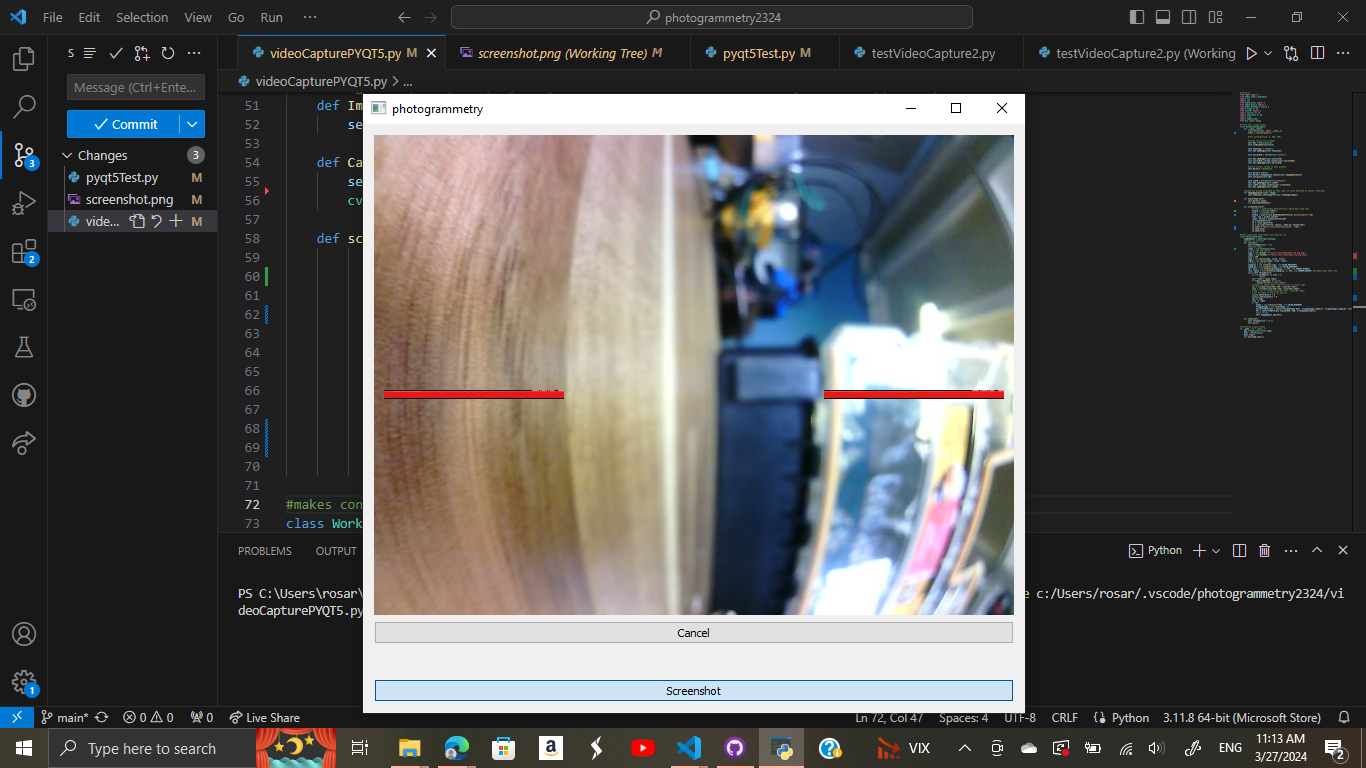
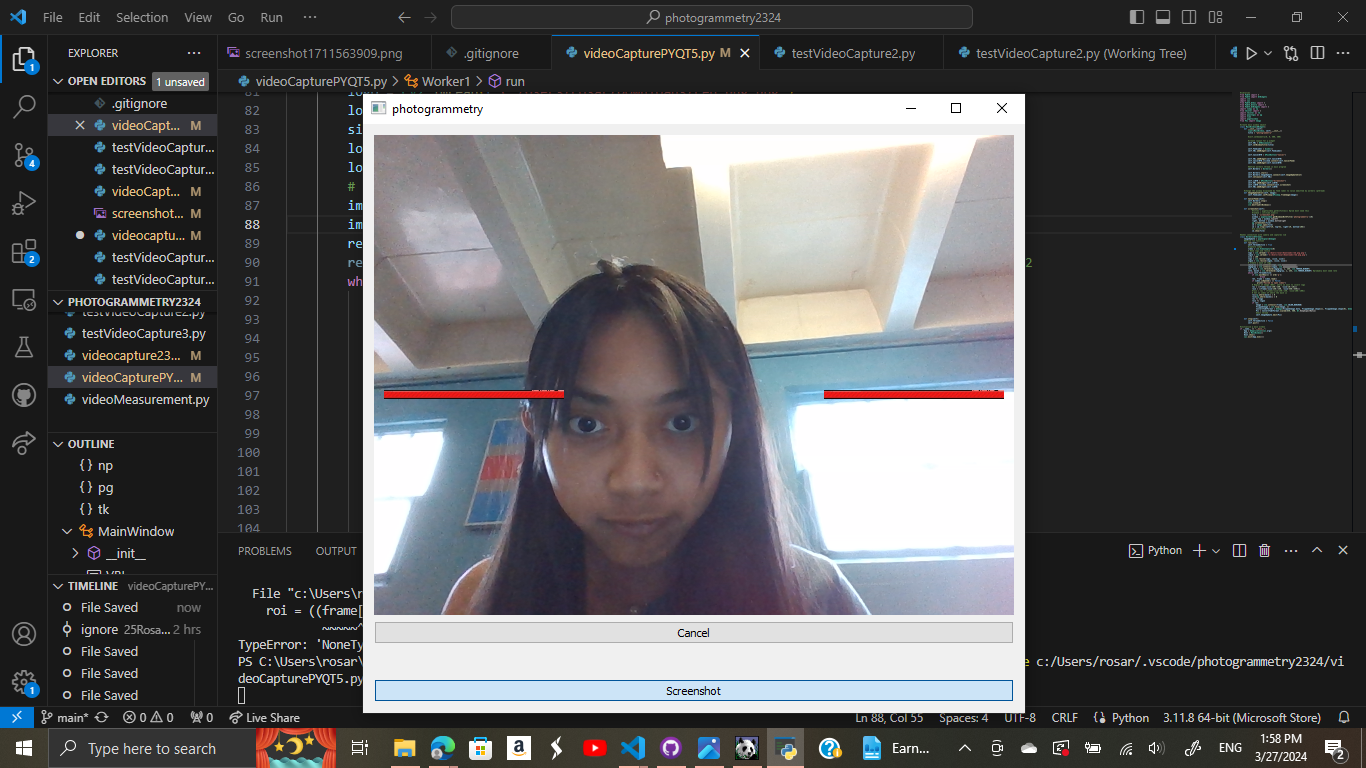
edit

diff --git a/videocapture2324.py b/videocapture2324.py
@@ -1,1 +1,123 @@
-#official code
+#libraries
+from PyQt5 import *
+from PyQt5 import QtWidgets
+import cv2
+import sys
+from PyQt5.QtGui import *
+from PyQt5.QtCore import *
+from PyQt5.QtWidgets import *
+import numpy as np
+from tkinter import *
+import tkinter as tk
+import pyautogui as pg
+import time
+import pygetwindow
+from PIL import Image
+
+#create main window object
+class MainWindow(QWidget):
+    def __init__(self):
+        super(MainWindow, self).__init__()
+        title = "photogrammetry"
+        
+        #self.setGeometry(0, 0, 500, 300)
+
+        #create layout for q widget
+        self.VBL = QVBoxLayout()
+        self.setWindowTitle(title)
+
+        self.FeedLabel = QLabel()
+        self.VBL.addWidget(self.FeedLabel)
+
+        self.CancelBTN = QPushButton("Cancel")
+
+        self.VBL.addWidget(self.CancelBTN)
+        self.CancelBTN.clicked.connect(self.CancelFeed)
+        self.VBL.addWidget(self.CancelBTN)
+
+        #define worker1 thread in main program
+        self.Worker1 = Worker1()
+
+        self.Worker1.start()
+        self.Worker1.ImageUpdate.connect(self.ImageUpdateSlot)
+        self.setLayout(self.VBL)
+
+        self.ssBTN = QPushButton("Screenshot")
+        self.VBL.addWidget(self.ssBTN)
+        self.ssBTN.clicked.connect(self.screenshot)
+        self.VBL.addWidget(self.ssBTN)
+
+    #change the pixmap displayed by feed label to value emmitted by worker1 (qthread) 
+    def ImageUpdateSlot(self, Image):
+        self.FeedLabel.setPixmap(QPixmap.fromImage(Image))
+
+    def CancelFeed(self):
+        self.Worker1.stop()
+        time.sleep(0)
+        cv2.destroyAllWindows()
+
+    def screenshot(self):
+            #titles = pygetwindow.getAllTitles() #prob dont need this
+            random = int(time.time())
+            file = "C:/Users/rosar/Downloads/guiSS/" + str(random) + ".png"
+            window = pygetwindow.getWindowsWithTitle('photogrammetry')[0]
+            left, top = window.topleft
+            right, bottom = window.bottomright
+            pg.screenshot(file)
+            im = Image.open(file)
+            im = im.crop((left+19, top+42, right-19, bottom-106))
+            im.save(file)
+            im.show(file)
+
+#makes connection with camera and captures vid
+class Worker1(QThread):
+    ImageUpdate = pyqtSignal(QImage)
+    #define run function
+    def run(self):
+        self.ThreadActive = True
+        #capture video
+        video = cv2.VideoCapture(0)
+        # Read logo and resize 
+        logo = cv2.imread(r'C:/Users/rosar/Downloads/red.png.png') 
+        logo2 = cv2.imread(r'C:/Users/rosar/Downloads/red.png.png')
+        size = 180
+        logo = cv2.resize(logo, (size, size)) 
+        logo2 = cv2.resize(logo2, (size, size))
+        # Create a mask of logo 
+        img2gray = cv2.cvtColor(logo, cv2.COLOR_BGR2GRAY)
+        img3gray = cv2.cvtColor(logo2, cv2.COLOR_BGR2GRAY) 
+        ret, mask = cv2.threshold(img2gray, 1, 255, cv2.THRESH_BINARY)
+        ret2, mask2 = cv2.threshold(img3gray, 1, 255, cv2.THRESH_BINARY) #probably dont need ret2
+        while self.ThreadActive:
+            if cv2.waitKey(1) == ord('q'):
+                    break
+            ret, frame = video.read()
+            if video.isOpened() == False:
+                 print("Failed to open video")
+            # Region of Image (ROI), where we want to insert logo 
+            roi = ((frame[-size-150:-150, -size-10:-10]))
+            roi2 = ((frame[-size-150:-150, -size-450:-450]))
+            #roi1 = roi + (frame[-size-150:-150, -size-100:-100])
+            # Set an index of where the mask is 
+            roi[np.where(mask)] = 0
+            roi2[np.where(mask2)] = 0
+            roi += logo
+            roi2 += logo2 
+            if ret:
+                Image = cv2.cvtColor(frame, cv2.COLOR_BGR2RGB)
+                FlippedImage = cv2.flip(Image, 1)
+                ConvertToQtFormat = QImage(FlippedImage.data, FlippedImage.shape[1], FlippedImage.shape[0], QImage.Format_RGB888)
+                Pic = ConvertToQtFormat.scaled(640, 480, Qt.KeepAspectRatio)
+                #emit thread
+                self.ImageUpdate.emit(Pic)
+                
+    def stop(self):
+        self.ThreadActive = False
+        self.quit()
+
+#initialize q main window
+if __name__ == "__main__":
+    App = QApplication(sys.argv)
+    Root = MainWindow()
+    Root.show()
+    sys.exit(App.exec())

diff --git a/measurementProgram.py b/measurementProgram.py
@@ -6,39 +6,39 @@ import math
 from PIL import Image, ImageFilter
 import matplotlib.pyplot as plt
 
-image = cv2.imread("C:/Users/rosar/Pictures/bloopbloop.jpeg")
-cv2.imshow("image", image)
-cv2.waitKey(0)
-cv2.destroyAllWindows()
-#cv2.resize(image, (400, 325))
-#img_75 = cv2.resize(image, None, fx = 0.75, fy = 0.75)
+# image = cv2.imread("C:/Users/rosar/Pictures/bloopbloop.jpeg")
+# cv2.imshow("image", image)
+# cv2.waitKey(0)
+# cv2.destroyAllWindows()
+# #cv2.resize(image, (400, 325))
+# #img_75 = cv2.resize(image, None, fx = 0.75, fy = 0.75)
 
-#resizing
-image = cv2.imread('C:/Users/rosar/Pictures/bloopbloop.jpeg', cv2.IMREAD_UNCHANGED)
-print('Original Dimensions : ',image.shape)
-width = 380
-height = 450
-dim = (width, height)
-resized = cv2.resize(image, dim, interpolation = cv2.INTER_AREA)
-print('Resized Dimensions : ',resized.shape)
-#cv2.imshow("Resized image", resized)
+# #resizing
+# image = cv2.imread('C:/Users/rosar/Pictures/bloopbloop.jpeg', cv2.IMREAD_UNCHANGED)
+# print('Original Dimensions : ',image.shape)
+# width = 380
+# height = 450
+# dim = (width, height)
+# resized = cv2.resize(image, dim, interpolation = cv2.INTER_AREA)
+# print('Resized Dimensions : ',resized.shape)
+# #cv2.imshow("Resized image", resized)
 
-rotated_image = cv2.rotate(image, cv2.ROTATE_90_CLOCKWISE)
-rotated_resized = cv2.resize(rotated_image, dim, interpolation = cv2.INTER_AREA)
-#cv2.imshow("Rotated and resized image", rotated_resized)
+# rotated_image = cv2.rotate(image, cv2.ROTATE_90_CLOCKWISE)
+# rotated_resized = cv2.resize(rotated_image, dim, interpolation = cv2.INTER_AREA)
+# #cv2.imshow("Rotated and resized image", rotated_resized)
 
-line_image = cv2.line(rotated_resized, (100, 210), (155, 210), (0, 0, 255), 10) 
-#cv2.imshow('with 1 bar', line_image)
+# line_image = cv2.line(rotated_resized, (100, 210), (155, 210), (0, 0, 255), 10) 
+# #cv2.imshow('with 1 bar', line_image)
 
-two_bars = cv2.line(line_image, (210, 210), (265, 210), (0, 0, 255), 10)
-cv2.imshow('with 2 bars', two_bars)
+# two_bars = cv2.line(line_image, (210, 210), (265, 210), (0, 0, 255), 10)
+# cv2.imshow('with 2 bars', two_bars)
 
-cv2.waitKey(0)
-cv2.destroyAllWindows()
+# cv2.waitKey(0)
+# cv2.destroyAllWindows()
 
 
 #variables
-ppmm = 5.855555
+ppmm = 5.855555 #make ppmm as input
 
 #ppmm means pixels per mm
 pixels = 0

diff --git a/pyqt5Test.py b/pyqt5Test.py
@@ -59,14 +59,15 @@ class MainWindow(QWidget):
     def screenshot(self):
             #titles = pygetwindow.getAllTitles() #prob dont need this
             random = int(time.time())
-            file = "screenshot" + str(random) + ".png"
+            video = cv2.VideoCapture(0)
+            file = "C:/Users/rosar/Downloads/guiSS/" + str(random) + ".png"
             window = pygetwindow.getWindowsWithTitle('hellooo')[0]
-            left, top = window.topleft
-            right, bottom = window.bottomright
+            left, top = video.topleft
+            right, bottom = video.bottomright
             pg.screenshot(file)
             im = Image.open(file)
-            im = im.crop((left+19, top+42, right-19, bottom-106))
-            #im.save(file)
+            im = im.crop((left, top, right, bottom)) #make more adaptable
+            im.save(file)
             im.show(file)
 
 #makes connection with camera and captures vid
@@ -76,7 +77,7 @@ class Worker1(QThread):
     def run(self):
         self.ThreadActive = True
         #capture video
-        video = cv2.VideoCapture(1)
+        video = cv2.VideoCapture(0)
         # Read logo and resize 
         logo = cv2.imread(r'C:/Users/rosar/Downloads/red.png.png') 
         logo2 = cv2.imread(r'C:/Users/rosar/Downloads/red.png.png')

diff --git a/videoCapturePYQT5.py b/videoCapturePYQT5.py
@@ -76,7 +76,7 @@ class Worker1(QThread):
     def run(self):
         self.ThreadActive = True
         #capture video
-        video = cv2.VideoCapture(1)
+        video = cv2.VideoCapture(0)
         # Read logo and resize 
         logo = cv2.imread(r'C:/Users/rosar/Downloads/red.png.png') 
         logo2 = cv2.imread(r'C:/Users/rosar/Downloads/red.png.png')
